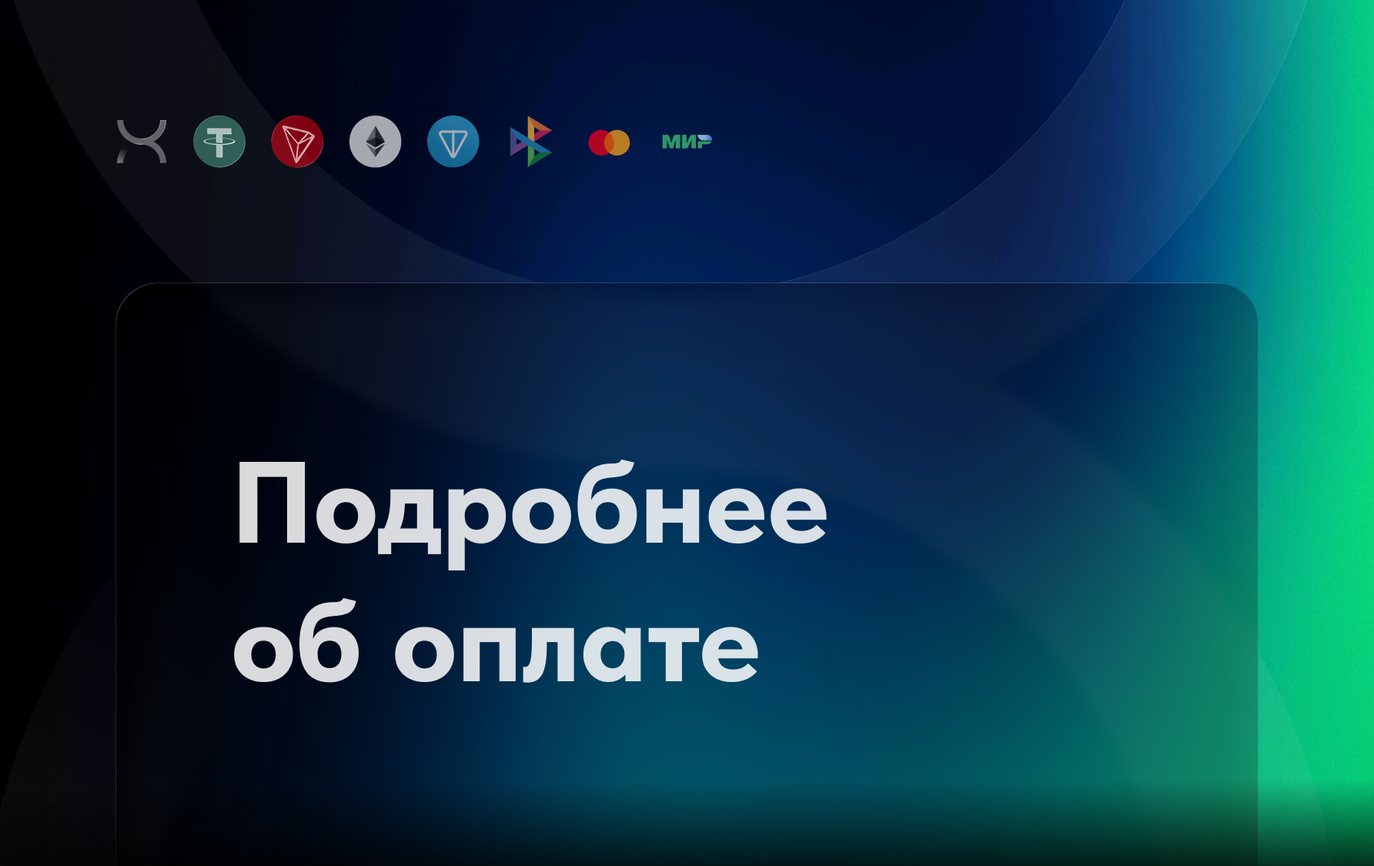
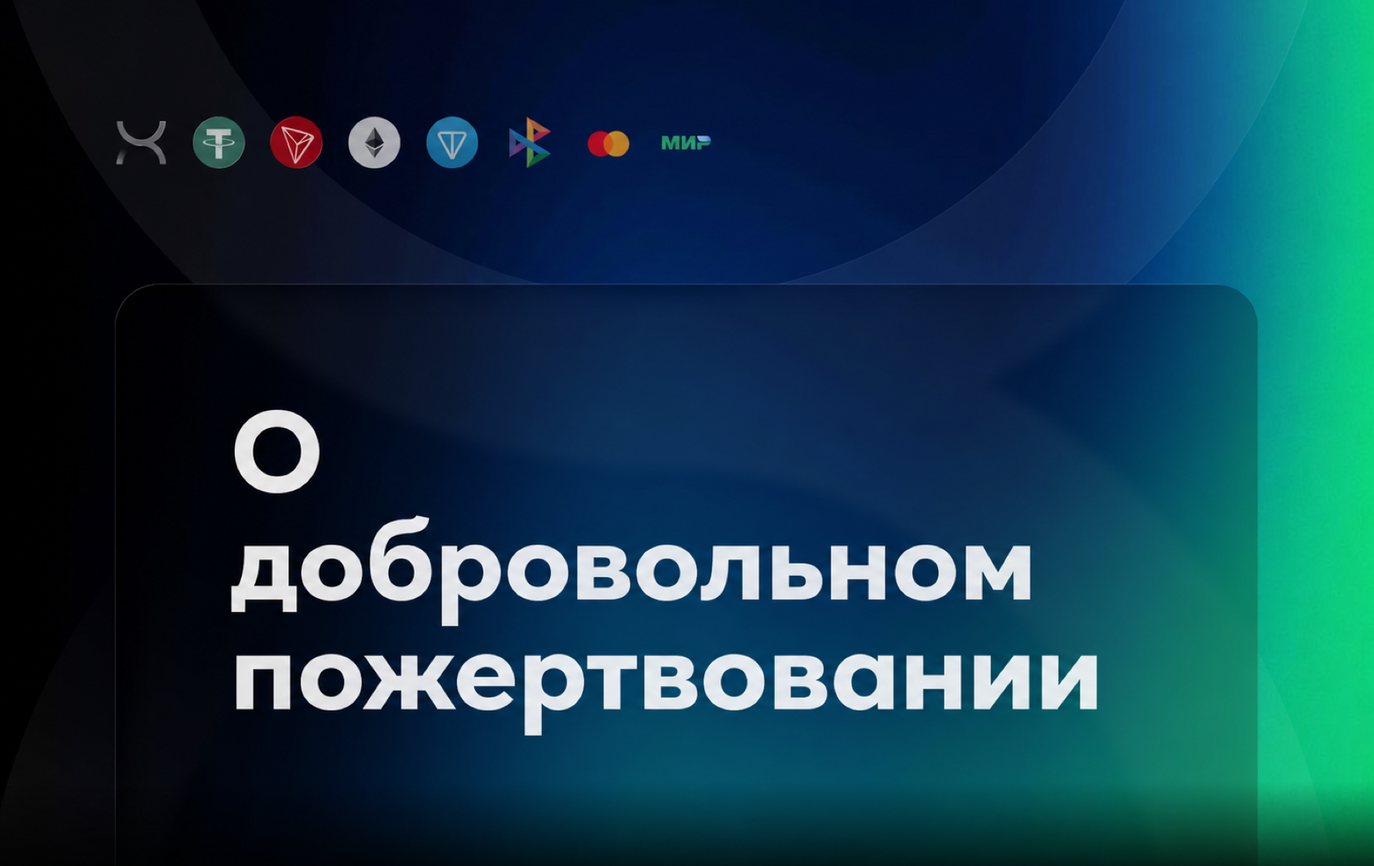
feat: reword payment flow as voluntary donations

diff --git a/src/bot.ts b/src/bot.ts
@@ -524,7 +524,10 @@ ${sundayInvite.invite_link}
 
         if (parsed.a === 'reject') {
           try {
-            await ctx.api.sendMessage(targetUserId, '❌ Оплата отклонена. Свяжитесь с поддержкой.')
+            await ctx.api.sendMessage(
+              targetUserId,
+              '❌ Добровольное пожертвование не подтверждено. Свяжитесь с поддержкой.'
+            )
             await ctx.api.editMessageCaption(String(ADMIN_GROUP_ID), message.message_id, {
               caption: `${caption}\n\n❌ Отклонено`,
             })
@@ -611,7 +614,7 @@ ${sundayInvite.invite_link}
     //   return
     // }
 
-    // Обычная навигация + оплата
+    // Обычная навигация + добровольное пожертвование
     if (parsed.a === 'open' && parsed.s) {
       goTo(userId, parsed.s)
       await renderScreen(ctx, userId, parsed.s, parsed.p)
@@ -689,7 +692,7 @@ ${sundayInvite.invite_link}
       }
 
       if (parsed.m === 'mastercard') {
-        // сразу на оплату
+        // сразу к добровольному пожертвованию
         goTo(userId, 'rub_payment')
         await renderScreen(ctx, userId, 'rub_payment', ctx.session.payment)
       } else {
@@ -736,7 +739,7 @@ ${sundayInvite.invite_link}
     if (parsed.a === 'paid') {
       await ctx.editMessageCaption({
         caption:
-          '📸 Отлично! Теперь пришли фото чека (или документ) в этот чат.\nЯ сразу передам админу.',
+          '📸 Отлично! Теперь пришлите подтверждение перевода (фото или документ) в этот чат.\nЯ сразу передам его администратору.',
         reply_markup: new InlineKeyboard().text('Отмена', packCb({ a: 'back' })),
         parse_mode: 'Markdown',
       })
@@ -944,7 +947,7 @@ ${sundayInvite.invite_link}
     )
   })
 
-  // ========== ЧЕК (фото / документ) — ВЫСОКИЙ ПРИОРИТЕТ===========
+  // ========== ПОДТВЕРЖДЕНИЕ ПЕРЕВОДА — ВЫСОКИЙ ПРИОРИТЕТ===========
   bot.on(['message:photo', 'message:document'], async (ctx) => {
     if (ctx.session.waitingForReceipt) {
       ctx.session.waitingForReceipt = false
@@ -1019,7 +1022,7 @@ ${sundayInvite.invite_link}
         : 'не указано'
       const adminText = `
 
-💰 *НОВАЯ ОПЛАТА*
+💰 *НОВОЕ ДОБРОВОЛЬНОЕ ПОЖЕРТВОВАНИЕ*
 ${productText}
 
 👤 ${profile.fio || 'не указано'}
@@ -1028,7 +1031,7 @@ ${productText}
 
 ${ctx.session.payment?.product === 'volunteer' ? 'TYPE:VOLUNTEER' : 'TYPE:CONTENT'}
 
-💳 Способ оплаты: ${methodText}
+💳 Способ перевода: ${methodText}
 ${volunteerText}
 
 🕒 ${new Date().toLocaleString('ru-RU')}
@@ -1038,7 +1041,10 @@ ${volunteerText}
 
       let threadId: number | undefined
       try {
-        const topic = await ctx.api.createForumTopic(ADMIN_GROUP_ID, `Новый заказ — ${username}`)
+        const topic = await ctx.api.createForumTopic(
+          ADMIN_GROUP_ID,
+          `Новое пожертвование — ${username}`
+        )
         threadId = topic.message_thread_id
       } catch (err) {
         console.error('Ошибка создания темы:', err)
@@ -1068,19 +1074,19 @@ ${volunteerText}
         }
 
         await ctx.reply(
-          '✅ Чек успешно отправлен администратору!\nОжидай подтверждения \nЧтобы вернуться в главное меню - нажми /main',
+          '✅ Подтверждение перевода отправлено администратору!\nОжидайте проверки.\nЧтобы вернуться в главное меню, нажмите /main',
           {
             parse_mode: 'Markdown',
           }
         )
       } catch (err) {
-        console.error('Ошибка отправки чека:', err)
-        await ctx.reply('❌ Не удалось отправить чек.')
+        console.error('Ошибка отправки подтверждения перевода:', err)
+        await ctx.reply('❌ Не удалось отправить подтверждение перевода.')
       }
       return
     }
 
-    // Если не чек — проверяем поддержку
+    // Если это не подтверждение перевода — проверяем поддержку
     if (ctx.session.inSupportMode) {
       let threadId = ctx.session.supportThreadId
       if (!threadId) {
@@ -1137,9 +1143,11 @@ ${volunteerText}
       volunteerId: volunteerTelegramId,
     }
 
-    await ctx.reply(`✅ Волонтёр выбран: ${volunteer.fio || 'Без имени'}\n\nПереходим к оплате...`)
+    await ctx.reply(
+      `✅ Волонтёр выбран: ${volunteer.fio || 'Без имени'}\n\nПереходим к добровольному пожертвованию...`
+    )
 
-    // 👉 переход в оплату
+    // Переход к добровольному пожертвованию
     goTo(ctx.from.id, 'payment')
     await renderScreen(ctx, ctx.from.id, 'payment', undefined, { forceNew: true })
   })

diff --git a/src/screens/payment-detail.ts b/src/screens/payment-detail.ts
@@ -6,25 +6,20 @@ import type { ScreenView } from '../core/render.js'
 
 const PAGES = [
   `1/5\n\n` +
-    `Администрация ХАБа вам очень признательна, если вы сможете оплатить именно криптовалютой, так как эти переводы привлекают меньше внимания банковских работников к нашим системам / помогают избежать проверок и блокировок по 115-ФЗ, а также налоговых издержек.`,
+    `Добровольные пожертвования помогают ХАБу поддерживать цифровые подписки, закрытые чаты и работу сервиса.`,
 
   `2/5\n\n` +
-    `В связи с вышеизложенным уведомляем вас о том, что при переводе в USDT вы сможете значительно сэкономить на покупке подписки.`,
+    `Поддержать проект можно рублёвым переводом или переводом в USDT. Выберите удобный для вас способ.`,
 
   `3/5\n\n` +
-    `Если вы совершаете самостоятельную покупку USDT на любой бирже через P2P (даже с учётом комиссий за перевод), такая покупка выйдет выгоднее.\n\n` +
-    `Пример:\n` +
-    `подписка через ХАБ стоит 40$ + 18% комиссии системы за перевод × 80₽ (или иной курс) = примерно 3280₽`,
+    `При переводе в USDT учитывайте комиссию биржи и выбранной сети. Сумма, которая поступит на кошелёк ХАБа, должна соответствовать рекомендуемому размеру пожертвования.`,
 
   `4/5\n\n` +
-    ` Если вы совершаете самостоятельную покупку USDt на любой бирже через Р2Р то даже с учетом всех комиссий за перевод, такая покупка выйдет выгоднее.
-
-Например:
-подписка через ХАБ стоит 40$ + 1$ (комиссия системы за перевод) х 80₽ (или иная стоимость по актуальному курсу Р2Р рынка за USDt) получаем стоимость в рублях = 3280₽`,
+    `Рекомендуемый размер пожертвования зависит от выбранного продукта. Актуальная сумма будет указана перед переводом.`,
 
   `5/5\n\n` +
-    `Выбирайте удобный способ и пишите админу в случае вопросов.\n` +
-    `Мы всегда на связи и поможем с оплатой максимально выгодно и безопасно.`,
+    `После перевода нажмите «Я отправил(а)» и приложите подтверждение. Администратор проверит поступление и активирует доступ.\n\n` +
+    `Если появятся вопросы, напишите администратору.`,
 ]
 
 const TOTAL_PAGES = PAGES.length
@@ -44,16 +39,16 @@ export function paymentDetailsScreen(userId: number, params?: { page: number }):
 
   kb.row()
 
-  // Кнопка "Назад к оплате" появляется ТОЛЬКО на последней странице
+  // Кнопка возврата появляется только на последней странице
   if (page === TOTAL_PAGES) {
-    kb.text('НАЗАД К ОПЛАТЕ', packCb({ a: 'open', s: 'about_payment' })).row()
+    kb.text('НАЗАД К ПОЖЕРТВОВАНИЮ', packCb({ a: 'open', s: 'about_payment' })).row()
   }
 
   kb.text('НА ГЛАВНУЮ', packCb({ a: 'home' })).icon('5465226866321268133')
 
   return {
     photo: './public/about-payment.png',
-    caption: `*ПОДРОБНОСТИ ОБ ОПЛАТЕ*\n\n${PAGES[page - 1]}\n\n`,
+    caption: `*О ДОБРОВОЛЬНОМ ПОЖЕРТВОВАНИИ*\n\n${PAGES[page - 1]}\n\n`,
     keyboard: kb,
   }
 }

diff --git a/src/screens/legal.ts b/src/screens/legal.ts
@@ -15,12 +15,13 @@ export function legalScreen(userId: number): ScreenView {
     photo: './public/legal.jpg',
     caption:
       `Вся информация в боте носит справочный характер и не является публичной офертой.\n\n` +
-      `ХАБ предоставляет посреднические услуги по доступу к цифровым подпискам и контенту, которые могут быть недоступны напрямую из РФ (в т.ч. из-за ограничений платёжных систем и региональных блокировок).\n\n` +
+      `ХАБ помогает участникам с доступом к цифровым подпискам и контенту, которые могут быть недоступны напрямую из РФ из-за региональных ограничений.\n\n` +
+      `Работа проекта поддерживается добровольными пожертвованиями участников.\n\n` +
       `Мы не являемся официальными партнёрами или дистрибьюторами (ProPresenter, ProContent и др.).\n` +
-      `Вы также осознаёте, что приобретение подписок *«в складчину»* может нарушать лицензионные соглашения.\n` +
+      `Вы также осознаёте, что совместное использование подписок *«в складчину»* может нарушать лицензионные соглашения.\n` +
       `Все действия вы совершаете на свой страх и риск.\n\n` +
       `\n` +
-      `*Оплата услуг означает ваше согласие с условиями и отказ от претензий в случае:*\n\n` +
+      `*Отправляя добровольное пожертвование и используя сервис, вы подтверждаете согласие с условиями и принимаете следующие риски:*\n\n` +
       `• блокировки аккаунта/потока\n` +
       `• изменения условий сервисов\n` +
       `• технических проблем со стороны разработчика\n\n` +

diff --git a/src/screens/others.ts b/src/screens/others.ts
@@ -14,13 +14,13 @@ export function otherScreen(userId: number): ScreenView {
   return {
     photo: './public/others.jpg',
     caption:
-      `Если вам нужна любая другая цифровая подписка или сервис, который недоступен в РФ (например, через прямую оплату из России заблокирован), мы поможем!\n\n` +
-      `Через ХАБ вы можете оплатить:\n` +
+      `Если вам нужна цифровая подписка или сервис, самостоятельное подключение которого недоступно из РФ, мы постараемся помочь!\n\n` +
+      `Через ХАБ можно получить помощь с доступом к:\n` +
       `• Любые премиум-сервисы (программы, облака, библиотеки контента и т.д.)\n` +
       `• Доступ к аккаунтам, потокам, лицензиям\n` +
       `• Всё, что связано с worship, музыкой, видео, софтом для церквей\n\n` +
-      `Просто напишите админу в чат — обсудим детали, стоимость и сроки.\n` +
-      `Мы подберём оптимальный способ оплаты и предоставим доступ на ваш аккаунт.\n\n` +
+      `Напишите администратору в чат — обсудим детали, рекомендуемый размер пожертвования и сроки.\n` +
+      `Мы подберём удобный способ перевода и поможем настроить доступ на вашем аккаунте.\n\n` +
       `Готовы помочь — жмите кнопку ниже!`,
 
     keyboard: kb,

diff --git a/src/screens/payment.ts b/src/screens/payment.ts
@@ -47,7 +47,9 @@ export function paymentScreen(userId: number, params: any, ctx: any): ScreenView
 
   // Цена
   const price = PRODUCT_PRICES[product]
-  const priceText = price ? `Стоимость: *${price} ₽/год*` : 'Стоимость: по договорённости с админом'
+  const donationText = price
+    ? `Рекомендуемая сумма пожертвования: *${price} ₽*`
+    : 'Рекомендуемый размер пожертвования уточните у администратора'
 
   const kb = new InlineKeyboard()
 
@@ -56,7 +58,7 @@ export function paymentScreen(userId: number, params: any, ctx: any): ScreenView
     .icon('5460978422111021593')
     .row()
   kb.row()
-  kb.text('Подробности об оплате', packCb({ a: 'open', s: 'payment_details', p: { page: 1 } }))
+  kb.text('О ПОЖЕРТВОВАНИИ', packCb({ a: 'open', s: 'payment_details', p: { page: 1 } }))
     .icon('5787544344906959608')
     .row()
   kb.row()
@@ -67,11 +69,11 @@ export function paymentScreen(userId: number, params: any, ctx: any): ScreenView
   return {
     photo: './public/payment.png',
     caption:
-      `*${isExtension ? 'ПРОДЛЕНИЕ' : 'ОПЛАТА'} — ${productName.toUpperCase()}*\n\n` +
+      `*ДОБРОВОЛЬНОЕ ПОЖЕРТВОВАНИЕ — ${productName.toUpperCase()}*\n\n` +
       `Вы выбрали: ${productName}${extraInfo}\n` +
-      `${priceText}\n` +
+      `${donationText}\n` +
       `${extensionInfo}\n` +
-      `Вы можете оплатить:\n` +
+      `Поддержать проект можно переводом:\n` +
       `• Рублёвый перевод\n` +
       `• Криптовалютный перевод в USDT (предпочтительнее)\n\n` +
       `Выберите способ ниже:`,

diff --git a/src/screens/rub-payment.ts b/src/screens/rub-payment.ts
@@ -7,7 +7,7 @@ import { PRODUCT_PRICES } from './payment.js'
 export function rubPaymentScreen(userId: number, params?: any): ScreenView {
   const kb = new InlineKeyboard()
 
-  kb.text('Я ОПЛАТИЛ(А)', packCb({ a: 'paid' }))
+  kb.text('Я ОТПРАВИЛ(А)', packCb({ a: 'paid' }))
     .icon('5317013291602553603')
     .row()
 
@@ -51,7 +51,7 @@ export function rubPaymentScreen(userId: number, params?: any): ScreenView {
   if (!params) {
     return {
       photo: './public/methods-rub.jpg',
-      caption: 'Ошибка: данные оплаты не найдены',
+      caption: 'Ошибка: данные перевода не найдены',
       keyboard: new InlineKeyboard().text('Назад', packCb({ a: 'back' })),
     }
   }
@@ -62,12 +62,12 @@ export function rubPaymentScreen(userId: number, params?: any): ScreenView {
   return {
     photo: './public/methods-rub.jpg',
     caption:
-      `*ОПЛАТА — РУБЛИ*\n\n` +
+      `*ДОБРОВОЛЬНОЕ ПОЖЕРТВОВАНИЕ — РУБЛИ*\n\n` +
       `Способ: **${methodText}**\n\n` +
-      `Сумма: **${amount}**\n\n` +
+      `Рекомендуемая сумма: **${amount}**\n\n` +
       `Реквизиты:\n\`\`\`\n${details}\n\`\`\`\n\n` +
       `Получатель: ${config.PAYMENT_RECEIVER_NAME}\n\n` +
-      `После перевода нажмите "Я ОПЛАТИЛ(А)"`,
+      `После перевода нажмите «Я ОТПРАВИЛ(А)»`,
 
     keyboard: kb,
   }

diff --git a/src/screens/about-payment.ts b/src/screens/about-payment.ts
@@ -7,13 +7,13 @@ import type { ScreenView } from '../core/render.js'
 export function aboutPaymentScreen(userId: number): ScreenView {
   const kb = new InlineKeyboard()
 
-  kb.text('ПРИОБРЕСТИ ПОДПИСКУ ', packCb({ a: 'open', s: 'add_subscription' }))
+  kb.text('ВЫБРАТЬ ПОДПИСКУ', packCb({ a: 'open', s: 'add_subscription' }))
     .icon('5310257187786878602')
     .row()
 
   kb.row()
 
-  kb.text('ПОДРОБНЕЕ ОБ ОПЛАТЕ ', packCb({ a: 'open', s: 'payment_details', p: { page: 1 } }))
+  kb.text('ПОДРОБНЕЕ', packCb({ a: 'open', s: 'payment_details', p: { page: 1 } }))
     .icon('5215209935188534658')
 
     .row()
@@ -24,7 +24,7 @@ export function aboutPaymentScreen(userId: number): ScreenView {
   return {
     photo: './public/about-payment.png', // зелёный скрин из твоей папки
     caption:
-      `Вы можете совершить оплату вашей подписки или подписки любого другого продукта ХАБа несколькими способами:\n\n` +
+      `Вы можете поддержать работу ХАБа добровольным пожертвованием одним из способов:\n\n` +
       `• Рублёвый перевод\n` +
       `• Криптовалютный перевод в USDT (предпочтительнее)\n\n` +
       `Выберите способ ниже:`,

diff --git a/src/screens/propresenter.ts b/src/screens/propresenter.ts
@@ -12,7 +12,7 @@ export function propresenterScreen(userId: number): ScreenView {
     .url('ОСТАЛИСЬ ВОПРОСЫ?', 'https://t.me/hubbbhelp_bot')
     .icon('5436113877181941026')
     .row()
-  // kb.text('Оплатить', packCb({ a: 'pay_product', p: 'propresenter' }))
+  // kb.text('Поддержать проект', packCb({ a: 'pay_product', p: 'propresenter' }))
   //   .icon('5318912792428814144')
   //   .row()
   kb.row()
@@ -24,7 +24,7 @@ export function propresenterScreen(userId: number): ScreenView {
       `*ProPresenter*— профессиональная программа для управления слайдами, видео, текстом и worship-контентом в церквях.\n\n` +
       `*Основные возможности описаны на*` +
       `[ сайте разработчика](https://www.renewedvision.com/propresenter)\n\n` +
-      `💰 *Стоимость "в складчину" через ХАБ:40$/год*\n` +
+      `💰 *Рекомендуемое пожертвование через ХАБ: 40$/год*\n` +
       `или от 3750₽/год (в зависимости от курса USDT на P2P)\n\n` +
       `📡 *Доступ через приватный ПОТОК:*\n\n` +
       `➕ *Выберите действие ниже:*`,

diff --git a/src/screens/sunday-screens.ts b/src/screens/sunday-screens.ts
@@ -10,7 +10,7 @@ export function SundayScreensScreen(userId: number): ScreenView {
   kb.text('Чаво по продукту', packCb({ a: 'open', s: 'faq_sunday_screens' }))
     .icon('5436113877181941026')
     .row()
-  kb.text('Оплатить', packCb({ a: 'pay_product', p: 'sunday_screens' }))
+  kb.text('Поддержать проект', packCb({ a: 'pay_product', p: 'sunday_screens' }))
     .icon('5318912792428814144')
     .row()
   kb.row()
@@ -26,7 +26,7 @@ export function SundayScreensScreen(userId: number): ScreenView {
       `• Готовые шаблоны для песен, проповедей и объявлений\n` +
       `• Поддержка различных экранов и программ проекции\n` +
       `• Доступ к библиотеке HD/4K контента без ограничений\n\n` +
-      `Стоимость в ХАБе: *2000 руб/год* (или эквивалент в USDT по курсу).\n` +
+      `Рекомендуемое пожертвование: *2000 руб.* (или эквивалент в USDT по курсу).\n` +
       `Доступ через наш приватный поток — без ограничений и блокировок.\n\n` +
       `Выберите действие ниже:`,
 

diff --git a/src/services/reminder.service.ts b/src/services/reminder.service.ts
@@ -116,7 +116,7 @@ export async function runReminders(bot: Bot) {
             `⏳ *Контент для экранов*\n\n` +
             `До окончания подписки осталось:\n` +
             `👉 *${timeStr}*\n\n` +
-            `Чтобы продлить доступ, зайдите в /profile`
+            `Чтобы поддержать проект и продлить доступ, зайдите в /profile`
 
           await sendReminder({ bot, user, key: reminderKey, text })
         }
@@ -167,7 +167,7 @@ async function kickUser(bot: Bot, user: any, chatId: number) {
     await bot.api.unbanChatMember(chatId, user.telegramId)
     await bot.api.sendMessage(
       user.telegramId,
-      '❌ Ваша подписка закончилась. Вы были удалены из группы.\n\n👉 Чтобы восстановить доступ, продлите подписку в /profile'
+      '❌ Ваша подписка закончилась. Вы были удалены из группы.\n\n👉 Чтобы поддержать проект и восстановить доступ, зайдите в /profile'
     )
     console.log(`🚫 Кикнут пользователь ${user.telegramId}`)
   } catch (err) {

diff --git a/src/screens/crypto-payment.ts b/src/screens/crypto-payment.ts
@@ -9,7 +9,7 @@ export function cryptoPaymentScreen(
   params?: { network: string; product?: string }
 ): ScreenView {
   const kb = new InlineKeyboard()
-  kb.text('Я ОПЛАТИЛ(А)', packCb({ a: 'paid' }))
+  kb.text('Я ОТПРАВИЛ(А)', packCb({ a: 'paid' }))
     .icon('5317013291602553603')
     .row()
   kb.row()
@@ -34,11 +34,11 @@ export function cryptoPaymentScreen(
   return {
     photo: './public/payment.png',
     caption:
-      `*ОПЛАТА — КРИПТА (${network.toUpperCase()})*\n\n` +
+      `*ДОБРОВОЛЬНОЕ ПОЖЕРТВОВАНИЕ — КРИПТА (${network.toUpperCase()})*\n\n` +
       `Сеть: **${network.toUpperCase()}**\n` +
-      `Сумма: **${amount}**\n\n` +
+      `Рекомендуемая сумма: **${amount}**\n\n` +
       `Адрес кошелька:\n\`\`\`\n${wallet}\n\`\`\`\n\n` +
-      `После перевода нажмите кнопку *Я ОПЛАТИЛ(А)* и пришлите чек (фото или документ).`,
+      `После перевода нажмите кнопку *Я ОТПРАВИЛ(А)* и пришлите подтверждение (фото или документ).`,
     keyboard: kb,
   }
 }

diff --git a/src/screens/payments-requisites.ts b/src/screens/payments-requisites.ts
@@ -3,10 +3,10 @@ export const REQUISITES = {
   rub: {
     card: '2200 1234 5678 9012\nПолучатель: Виталий К.',
     sbp: '+7 (999) 000-00-00\nПолучатель: Виталий К.',
-    note: 'Переведите сумму по одному из способов. После перевода нажмите "Я ОПЛАТИЛ(А)" и пришлите чек (фото).',
+    note: 'Отправьте пожертвование одним из способов. После перевода нажмите «Я ОТПРАВИЛ(А)» и пришлите подтверждение (фото).',
   },
   crypto: {
     usdt: 'TAbcdef123456789... (TRC20)\nСеть: TON\nМинимальная сумма: 10 USDT',
-    note: 'Переведите сумму в USDT. После перевода пришлите TXID (текст) или скрин. Админ проверит и активирует подписку.',
+    note: 'Отправьте пожертвование в USDT. После перевода пришлите TXID или скриншот. Администратор проверит поступление и активирует подписку.',
   },
 } as const
